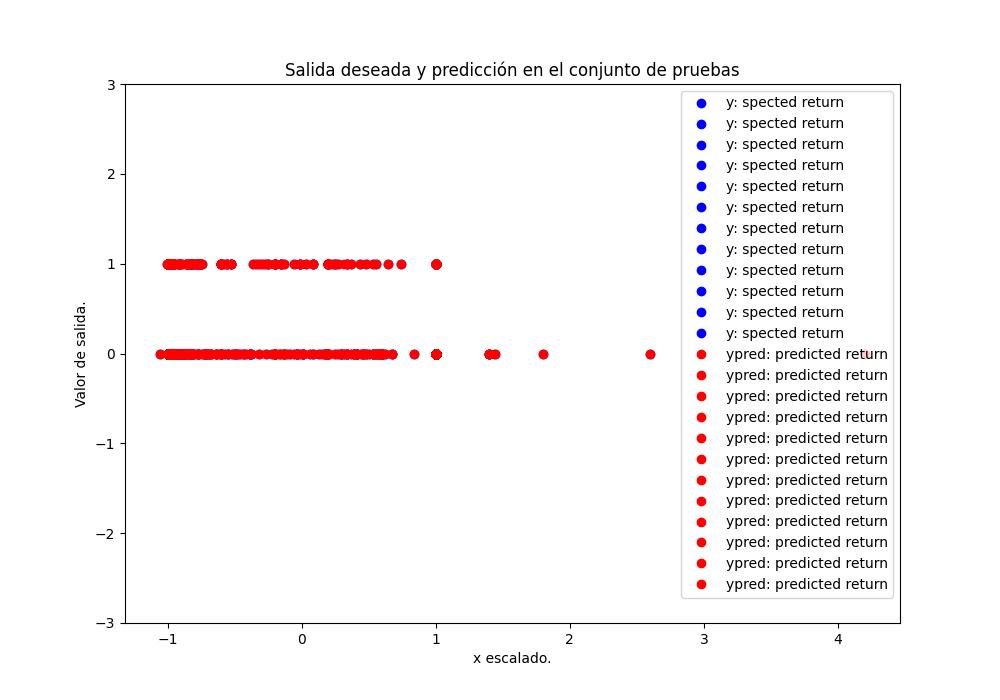
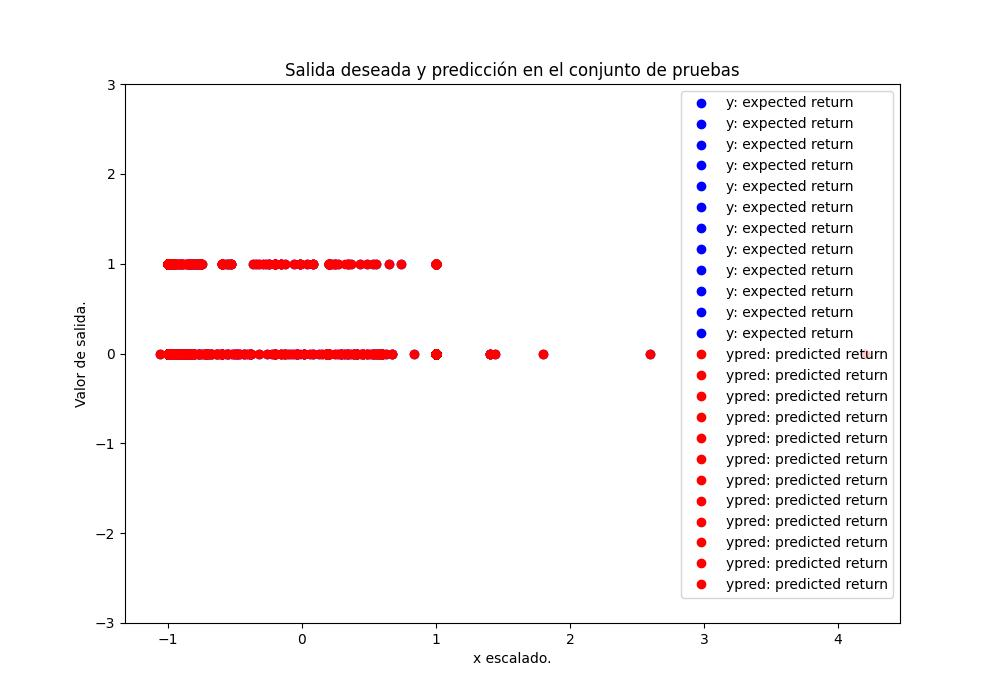
tunning

Changed region(s): [[0.744, 0.12, 0.868, 0.48], [0.372, 0.36, 0.403, 0.39], [0.279, 0.36, 0.31, 0.39]]

diff --git a/src/main.py b/src/main.py
@@ -26,6 +26,9 @@ def model():
     target = request.args.get("target", "")
     return(
         """<div>
+                <ul>
+                    <li><a href="{url_for('/')}">Go back</a></li>
+                </ul>
                 <form action="" method="get">
                     <input type="text" name="target">
                     <input type="submit" value="predict">
@@ -41,7 +44,15 @@ def data_clensing():
     clean_df_html = pd.DataFrame(data=clean_df).to_html()
     df_info = pd.DataFrame(data=df_info).to_html()
 
-    return f'<h1>Clean Data frame:</h1>{clean_df_html}{df_info}'
+    return f"""<div>
+                <ul>
+                    <li><a href="{url_for('/')}">Go back</a></li>
+                </ul>
+                <h1>Clean Data frame:</h1>
+                {clean_df_html}
+                {df_info}
+            </div>
+            """ 
 
 @app.route("/analysis/data_target")
 def data_target():
@@ -52,6 +63,9 @@ def data_target():
     target_info_html = pd.DataFrame(data=target_info).to_html()
 
     return f"""<div>
+                    <ul>
+                        <li><a href="{url_for('/')}">Go back</a></li>
+                    </ul>
                     <h1>Data and target split:</h1>
                     <br/>
                     <h1>Data split:</h1>
@@ -72,6 +86,9 @@ def train_test_val():
     y_val_info_html = pd.DataFrame(data=y_val_info).to_html()
 
     return f"""<div>
+                    <ul>
+                        <li><a href="{url_for('/')}">Go back</a></li>
+                    </ul>
                     <h1>Train test validation:</h1>
                     <br/>
                     <h1>X_train:</h1>
@@ -93,6 +110,9 @@ def train_test_val():
 def svm():
     train_plt, val_plt, test_plt, train_val_plt = project.get_svm()
     return f"""<div>
+                    <ul>
+                        <li><a href="{url_for('tunning')}">Tunning</a></li>
+                    </ul>
                     <h1>SVM:</h1>
                      <h2>Pred VS Train:</h2>
                     <img src="/static/{train_plt}" />
@@ -104,6 +124,19 @@ def svm():
                     <img src="/static/{train_val_plt}" />
                 </div> 
                 """
+@app.route("/tunning")
+def tunning():
+    bestEstimator, bestParams = project.get_svm_tuning()
+    return f"""<div>
+                    <ul>
+                        <li><a href="{url_for('svm')}">Go back</a></li>
+                    </ul>
+                    <h1>Tunning for:</h1>
+                     <h2>Best parameters: {bestParams}</h2>
+                     <h2>Best estimator: {bestEstimator}<h2/>
+                </div> 
+                """
+    
 
 @app.route("/analysis/xgb")
 def xgb():

diff --git a/src/analysis.py b/src/analysis.py
@@ -304,7 +304,7 @@ def base_svm_model(X_train, y_train):
   svm_reg.fit(X_train, y_train)
   return svm_reg
 
-def svm_tunning(X_train, X_test, y_train):
+def svm_tuningn(X_train, X_test, y_train):
   """
     tunes the svm hiper parameters(C, gamma and kernel) to find the optimal for the desired prediction.
 
@@ -322,7 +322,7 @@ def svm_tunning(X_train, X_test, y_train):
     """
   param_grid = {'C': [0.1, 1, 10, 100, 1000], 
               'gamma': [1, 0.1, 0.01, 0.001, 0.0001],
-              'kernel': ['linear','poly', 'sigmoid', 'precomputed']} 
+              'kernel': ['linear','poly', 'sigmoid']} 
   # 'poly', 'rbf', 'sigmoid', 'precomputed'
   grid = GridSearchCV(SVC(), param_grid, refit = True, verbose = 3)
   grid.fit(X_train, y_train)
@@ -592,7 +592,7 @@ def plotPredVSReqTrain(X_train, y_train, y_train_pred):
   scaler.fit(X_train)
 
   x_train_scaled = scaler.transform(X_train)
-  slbls=["y: spected return", "", "", "", "", "", "","", "", "", "", ""]
+  slbls=["y: expected return", "", "", "", "", "", "","", "", "", "", ""]
   plbls=["ypred: predicted return", "", "", "", "", "", "","", "", "", "", ""]
 
   plt.figure(figsize=(10,7))
@@ -634,7 +634,7 @@ def plotPredVSReqValidation(X_train, y_val, val_predict, X_val):
   x_val_scaled   = scaler.transform(X_val)
 
   plt.figure(figsize=(10,7))
-  plt.plot(x_val_scaled,y_val,'b.',marker='o', label='y: spected return')
+  plt.plot(x_val_scaled,y_val,'b.',marker='o', label='y: expected return')
   plt.plot(x_val_scaled,val_predict,'r.',marker='o', label='ypred: predicted return') 
   plt.xlabel('x escalado.')
   plt.ylabel('Valor de salida.')
@@ -672,7 +672,7 @@ def plotPredVSReqTest(X_train, y_test, predictions, X_test):
   x_test_scaled  = scaler.transform(X_test)   #Transformamos los datos de pruebas
 
   plt.figure(figsize=(10,7))
-  plt.plot(x_test_scaled,y_test,'b.',marker='o', label='y: spected return')
+  plt.plot(x_test_scaled,y_test,'b.',marker='o', label='y: expected return')
   plt.plot(x_test_scaled,predictions,'r.',marker='o', label='ypred: predicted return') 
   plt.xlabel('x escalado.')
   plt.ylabel('Valor de salida.')
@@ -711,7 +711,7 @@ def plotTrainVSVal(X_train, y_train, X_val, val_predict):
   x_val_scaled   = scaler.transform(X_val)    #Transformamos los datos de validación.
 
   plt.figure(figsize=(10,7))
-  plt.plot(x_train_scaled,y_train,'b.',marker='o', label='y: spected return')
+  plt.plot(x_train_scaled,y_train,'b.',marker='o', label='y: expected return')
   plt.plot(x_val_scaled,val_predict,'r.',marker='o', label='ypred: predicted return') 
   plt.xlabel('x train escalado.')
   plt.ylabel('X Validation escalado.')

diff --git a/src/project.py b/src/project.py
@@ -118,6 +118,11 @@ def get_svm():
   train_plt, val_plt, test_plt, train_val_plt = __svm()
   return train_plt, val_plt, test_plt, train_val_plt
 
+def get_svm_tuning():
+  X_train, X_test, y_train, _ , _, _ = __train_test_val()
+  bestParams, bestEstimator, _ = analysis.svm_tuningn(X_train, X_test, y_train)
+  return bestEstimator, bestParams
+  
 def __xgb():
   X_train, X_test, y_train, y_test, X_val, y_val = __train_test_val()
   train_pred = analysis.tuned_xgb(X_train, y_train,X_test)
@@ -135,7 +140,8 @@ def __xgb():
   return train_plt, val_plt, test_plt, train_val_plt
   
 def get_xgb():
-  return
+  train_plt, val_plt, test_plt, train_val_plt = __xgb()
+  return train_plt, val_plt, test_plt, train_val_plt 
 
 #Feature Importance
 ###########################################
